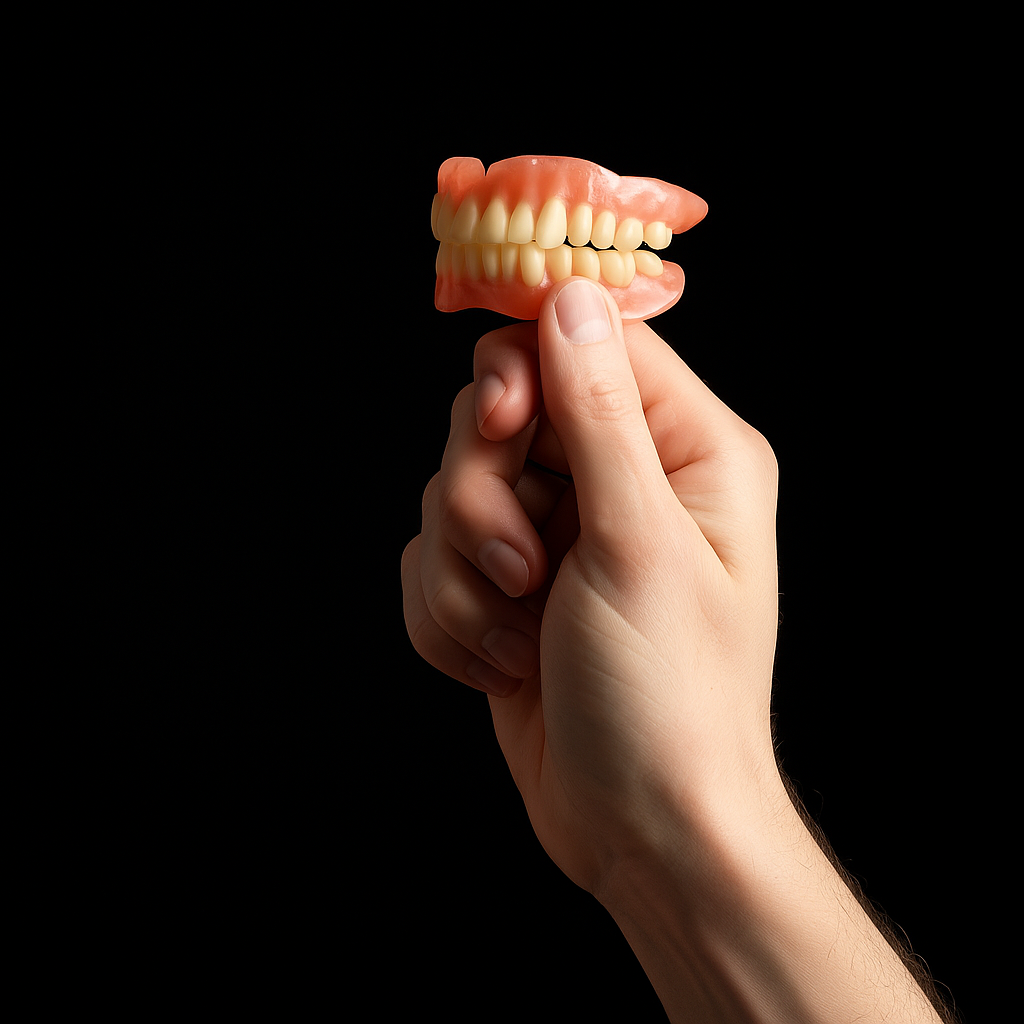
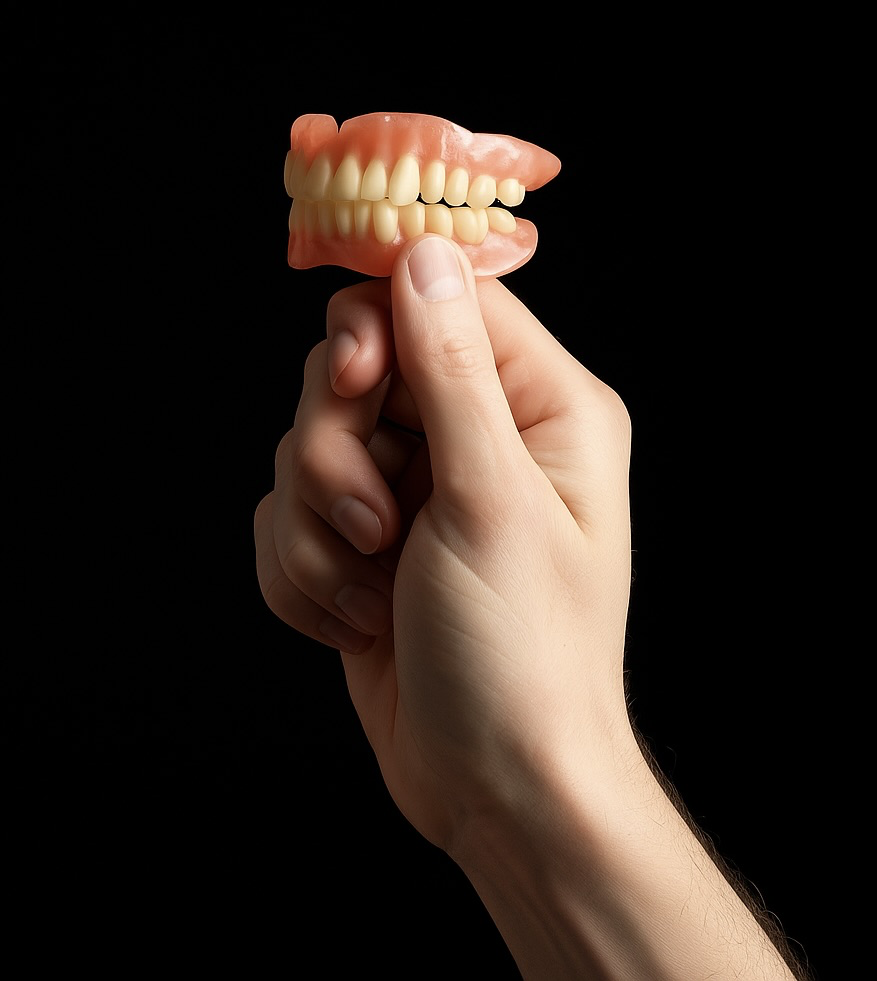
commit

Changed region(s): [[0.2771, 0.0917, 0.9544, 1.0]]

diff --git a/src/components/sections/WhyChooseSection.tsx b/src/components/sections/WhyChooseSection.tsx
@@ -11,6 +11,7 @@ import {
   fadeUpCardVariants,
   fadeUpVariants,
   heroTransition,
+  MOTION_EASE,
   motionConfig,
   staggerContainerVariants,
   staggerGridVariants,
@@ -29,15 +30,35 @@ const CARD_ICONS = [
 
 export function WhyChooseImageBlock() {
   const reduced = useReducedMotion() ?? false;
+  const [galleryImages, setGalleryImages] = React.useState({
+    main: MAIN_IMAGE_SRC,
+    thumbnails: [...SMALL_IMAGES_SRC],
+  });
+  const [swapCount, setSwapCount] = React.useState(0);
+
+  const swapImage = (index: number) => {
+    setGalleryImages((current) => {
+      const next = [...current.thumbnails];
+      const selectedThumbnail = next[index];
+      next[index] = current.main;
+      return {
+        main: selectedThumbnail,
+        thumbnails: next,
+      };
+    });
+    setSwapCount((count) => count + 1);
+  };
 
   return (
     <motion.div
-      className="mx-auto flex shrink-0 justify-end gap-2.5 rounded-[30px] p-8 w-full max-w-full aspect-[635/774] md:w-[635px] md:h-[774px] md:aspect-auto min-[1080px]:mx-0 min-[1080px]:w-[515px] min-[1080px]:h-[626px] min-[1220px]:w-[572px] min-[1220px]:h-[696px] min-[1440px]:w-[635px] min-[1440px]:h-[774px]"
+      className="relative mx-auto flex shrink-0 justify-end gap-2.5 rounded-[30px] p-8 w-full max-w-full aspect-[635/774] md:w-[635px] md:h-[774px] md:aspect-auto min-[1080px]:mx-0 min-[1080px]:w-[515px] min-[1080px]:h-[626px] min-[1220px]:w-[572px] min-[1220px]:h-[696px] min-[1440px]:w-[635px] min-[1440px]:h-[774px]"
       style={{
-        backgroundImage: `url(${MAIN_IMAGE_SRC})`,
+        backgroundImage: `url(${galleryImages.main})`,
         backgroundRepeat: "no-repeat",
-        backgroundPosition: "0px -64.192px",
-        backgroundSize: "100.316% 126.085%",
+        backgroundPosition:
+          galleryImages.main === MAIN_IMAGE_SRC ? "0px -64.192px" : "center",
+        backgroundSize:
+          galleryImages.main === MAIN_IMAGE_SRC ? "100.316% 126.085%" : "cover",
         backgroundColor: "lightgray",
       }}
       initial={reduced ? false : { opacity: 0, scale: 0.98 }}
@@ -51,15 +72,27 @@ export function WhyChooseImageBlock() {
         duration: motionConfig.duration.slower,
       })}
     >
-      <div className="flex flex-col items-start gap-2.5">
-        {SMALL_IMAGES_SRC.map((src, i) => (
-          <motion.div
-            key={src}
-            className="relative h-[61px] w-[59px] shrink-0 overflow-hidden rounded-[15px] md:rounded-[30px] border border-[var(--color-grey)]/30 bg-[#e5e5e5] min-[768px]:h-[107px] min-[768px]:w-[102.603px]"
+      <motion.div
+        key={`${galleryImages.main}-${swapCount}`}
+        className="pointer-events-none absolute inset-0 rounded-[30px] bg-white/10"
+        initial={reduced ? false : { opacity: 0.45, scale: 1.02 }}
+        animate={{ opacity: 0, scale: 1 }}
+        transition={{ duration: reduced ? 0 : 0.42, ease: MOTION_EASE }}
+        aria-hidden
+      />
+      <div className="relative z-10 flex flex-col items-start gap-2.5">
+        {galleryImages.thumbnails.map((src, i) => (
+          <motion.button
+            key={`${src}-${i}`}
+            type="button"
+            onClick={() => swapImage(i)}
+            className="relative h-[61px] w-[59px] shrink-0 overflow-hidden rounded-[15px] bg-[#e5e5e5] shadow-[0_6px_18px_rgba(20,20,20,0.14)] transition-shadow hover:shadow-[0_10px_28px_rgba(20,20,20,0.2)] focus:outline-none focus:ring-2 focus:ring-[var(--color-red-main)] focus:ring-offset-2 md:rounded-[30px] min-[768px]:h-[107px] min-[768px]:w-[102.603px]"
             style={{ aspectRatio: "59/61" }}
             initial={
               reduced ? false : { opacity: 0, x: motionConfig.offset.thumbX }
             }
+            whileHover={reduced ? undefined : { scale: 1.04, y: -2 }}
+            whileTap={reduced ? undefined : { scale: 0.97 }}
             whileInView={{ opacity: 1, x: 0 }}
             viewport={{
               once: motionConfig.viewport.once,
@@ -71,6 +104,7 @@ export function WhyChooseImageBlock() {
               delay:
                 reduced ? 0 : motionConfig.delay.thumbBase + i * motionConfig.stagger.thumb,
             })}
+            aria-label={`Show image ${i + 1}`}
           >
             <Image
               src={src}
@@ -79,7 +113,7 @@ export function WhyChooseImageBlock() {
               className="object-cover object-center"
               sizes="(max-width: 767px) 59px, 102.603px"
             />
-          </motion.div>
+          </motion.button>
         ))}
       </div>
     </motion.div>

diff --git a/src/components/sections/BlogCardsSection.tsx b/src/components/sections/BlogCardsSection.tsx
@@ -29,15 +29,19 @@ function BlogCard({
             }}
         >
             {/* Image Container */}
-            <div className="relative aspect-[380/236] w-full overflow-hidden rounded-[20px]">
+            <Link
+                href={href}
+                className="relative block aspect-[380/236] w-full overflow-hidden rounded-[20px]"
+                aria-label={title}
+            >
                 <Image
                     src={image}
                     alt={title}
                     fill
-                    className="object-cover"
+                    className="object-cover transition-transform duration-300 hover:scale-[1.02]"
                     sizes="(max-width: 768px) 100vw, (max-width: 1024px) 50vw, 33vw"
                 />
-            </div>
+            </Link>
 
             {/* Content Area */}
             <div className="flex flex-1 flex-col gap-4 self-stretch pt-2 lg:justify-between">

diff --git a/src/messages/uk/extra.ts b/src/messages/uk/extra.ts
@@ -31,7 +31,7 @@ export const futureIsHere = {
     "Наша лабораторія повністю перейшла на цифровий робочий протокол. Це включає в себе отримання сканів або оцифровку моделей за допомогою сканера та роботу з ними.",
   cards: [
     "Цифровий протокол дозволяє систематизовувати процеси в роботі, тим самим пришвидшуючи виконання.",
-    "Ми можемо аналізувати наші роботи краще, адже бачимо більше, ніж якби ми це робили мануально",
+    "Ми можемо аналізувати наші роботи краще, адже бачимо більше, ніж якби ми це робили мануально.",
   ],
 };
 
@@ -41,7 +41,7 @@ export const precisionQuality = {
   p1:
     "Ми впевнені в точності наших робіт, адже перевіряємо кожну роботу під мікроскопом: посадку, прилягання у конструкціях будь-якого типу.",
   p2:
-    "Мікроскоп – це наша гарантія точності та ідеальної посадки, гарантія що лікар, як і його пацієнт, будуть задоволений роботою.",
+    "Мікроскоп — це гарантія точності та ідеальної посадки, завдяки якій лікар і пацієнт залишаються задоволені результатом.",
 };
 
 export const whatClientsSay = {

diff --git a/src/messages/uk/ourServices.ts b/src/messages/uk/ourServices.ts
@@ -8,7 +8,7 @@ export const ourServices = {
       title: "Конструкції на гвинтовій фіксації",
       items: [
         "Постійна конструкція All on 4/6",
-        "Цирконій на фрезерованій титановій балці (від рівня імплантатів, мультиблоків)",
+        "Цирконій на фрезерованій титановій балці (від рівня імплантатів, мультиюнітів)",
         "Повноанатомічний цирконій",
         "Фрезерований титан (від рівня імплантатів, мультиюнітів) з композитним покриттям і зубами",
         "CoCr з керамічним покриттям",
@@ -32,7 +32,7 @@ export const ourServices = {
       items: [
         "Моделюємо конструкції будь-якої складності",
         "Моделювання кукс та конструкцій на імплантатах",
-        "Моделювання 3D-моделей, віск для вицвітання, тимчасові вироби, штучні ясна, бази, ковпачки/шаблони",
+        "Моделювання 3D-моделей, віск для випалювання, тимчасові вироби, штучні ясна, бази, ковпачки/шаблони",
         "Вініри/фрезерований дисилікат літію",
       ],
     },

diff --git a/src/messages/uk/servicesList.ts b/src/messages/uk/servicesList.ts
@@ -8,7 +8,7 @@ export const servicesList = {
       items: [
         "Постійна конструкція All on 4/6",
         "Повноанатомічний цирконій",
-        "Цирконій на фрезерованій титановій балці (від рівня імплантатів, мультиблоків)",
+        "Цирконій на фрезерованій титановій балці (від рівня імплантатів, мультиюнітів)",
         "CoCr з керамічним покриттям",
         "Титанові, металеві Co-Cr та гібридні абатменти",
       ],
@@ -33,7 +33,7 @@ export const servicesList = {
         "Вініри/фрезерований дисилікат літію",
         "Тимчасові вироби, штучні ясна, бази, ковпачки/шаблони",
         "Моделювання кукс та конструкцій на імплантатах",
-        "Моделювання 3D-моделей, віск для вицвітання",
+        "Моделювання 3D-моделей, віск для випалювання",
       ],
       image: "/ourServices/7c93d4e891eae89e2641a4d88dd16a63affc8abf.png",
     },